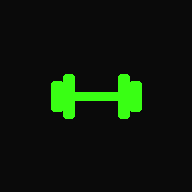
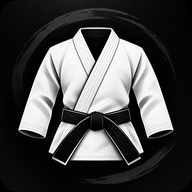
Add files via upload

diff --git a/index.html b/index.html
@@ -3,7 +3,7 @@
 <head>
 <meta charset="utf-8">
 <meta name="viewport" content="width=device-width, initial-scale=1, viewport-fit=cover">
-<meta name="theme-color" content="#000000">
+<meta name="theme-color" content="#050505">
 <meta name="application-name" content="TREINO">
 <meta name="description" content="Organize seus treinos, acompanhe sua evolução e registre seu histórico.">
 <link rel="manifest" href="./manifest.webmanifest">
@@ -13,7 +13,7 @@
 <meta name="apple-mobile-web-app-capable" content="yes">
 <meta name="apple-mobile-web-app-title" content="Treino">
 <meta name="apple-mobile-web-app-status-bar-style" content="black-translucent">
-<title>TREINO — Cronograma de Treinos</title>
+<title>TREINO — Jiu-Jitsu & Performance</title>
 <link href="https://fonts.googleapis.com/css2?family=Barlow:wght@400;500;600&family=Barlow+Condensed:wght@600;700&display=swap" rel="stylesheet">
 <style>
 :root{--bg:#000;--s1:#101012;--s2:#1b1b1e;--ln:#28282c;--ink:#f5f5f7;--mu:#8e8e96;--ac:#fff;--on:#000;--sh:0 8px 24px rgba(0,0,0,.45);color-scheme:dark;box-sizing:border-box;padding-top:env(safe-area-inset-top,0px);padding-bottom:env(safe-area-inset-bottom,0px)}
@@ -82,6 +82,58 @@ input:focus-visible,select:focus-visible,textarea:focus-visible,button:focus-vis
 #timer b{font:700 26px "Barlow Condensed",sans-serif}#timer .ib{color:var(--ink)}
 #toast{position:fixed;left:50%;top:calc(14px + env(safe-area-inset-top,0px));transform:translate(-50%,-20px);opacity:0;background:var(--ac);color:var(--on);padding:10px 16px;border-radius:30px;font-weight:600;z-index:40;pointer-events:none;transition:.25s;max-width:90vw;text-align:center}#toast.on{opacity:1;transform:translate(-50%,0)}
 @media (prefers-reduced-motion:reduce){*{transition:none!important}}
+
+/* TREINO — FUTURISTA MINIMALISTA / JIU-JITSU */
+:root{
+ --bg:#050505;--s1:#0d0d0f;--s2:#171719;--ln:#28282b;
+ --ink:#f5f5f5;--mu:#85858b;--ac:#f4f4f4;--on:#050505;
+ --sh:0 14px 34px rgba(0,0,0,.34);
+}
+:root[data-theme="light"]{
+ --bg:#f4f4f4;--s1:#fff;--s2:#ededed;--ln:#d7d7d7;
+ --ink:#111;--mu:#6d6d72;--ac:#111;--on:#fff;
+}
+body{letter-spacing:.01em;background:
+ radial-gradient(ellipse at 50% -15%,rgba(255,255,255,.045),transparent 45%),
+ var(--bg)}
+main{padding:18px 15px 138px}
+#view::before{content:"JIU-JITSU  /  DISCIPLINA  /  EVOLUÇÃO";display:block;font:600 10px/1.2 Barlow,sans-serif;letter-spacing:.22em;color:var(--mu);margin:2px 0 12px}
+h1{font-size:36px;letter-spacing:-.025em;margin:0 0 6px}
+h1::after{content:"";display:block;width:38px;height:2px;background:var(--ink);opacity:.7;margin-top:10px}
+h2{font-size:26px;letter-spacing:-.01em}
+h3{font-size:17px;letter-spacing:.12em;text-transform:uppercase;color:var(--mu)}
+.card{border-radius:18px;background:linear-gradient(145deg,var(--s1),color-mix(in srgb,var(--s1) 92%,var(--ink) 8%));border-color:color-mix(in srgb,var(--ln) 70%,var(--ink) 12%);padding:17px;margin:12px 0}
+.b,.pb,.ib{transition:transform .12s ease,background .16s ease,border-color .16s ease}
+.b{border-radius:11px;background:var(--s2);border-color:var(--ln)}
+.b.pri,.pb{background:var(--ink);color:var(--bg);border-color:var(--ink)}
+.b:active,.pb:active,.ib:active{transform:scale(.97)}
+.ib{background:#101012;border-color:#2b2b2e;color:#e9e9e9;border-radius:11px}
+.ring{width:106px}
+.rb{stroke:#242427}.rf{stroke:var(--ink)}
+.kp b{font-size:32px;letter-spacing:-.03em}
+.nx{border-left-width:2px;border-left-color:var(--ink)!important;padding-left:14px}
+.nx b{font-size:20px;letter-spacing:-.01em}
+.seg{background:var(--s1);border-color:var(--ln);border-radius:12px}
+.seg button[aria-pressed="true"]{background:var(--ink);color:var(--bg)}
+.wn button{border-radius:11px;background:var(--s1);border-color:var(--ln)}
+.dc,.mc{background:var(--s1);border-radius:12px;border-color:var(--ln)}
+.dc[aria-pressed="true"]{background:var(--ink);color:var(--bg);border-color:var(--ink)}
+.ss{border-left-width:2px;border-radius:15px;background:var(--s1);border-color:var(--ln);border-left-color:var(--ink)!important}
+.ss .bd{border-radius:7px;text-transform:uppercase;letter-spacing:.06em;font-size:10px}
+.ss.d .bd{background:var(--ink);color:var(--bg)}
+.mets b{font-size:34px;letter-spacing:-.025em}
+.pg{height:5px;background:var(--s2)}.pg i{background:var(--ink)}
+.bg{border-radius:12px;background:var(--s1);border-color:var(--ln)}
+input,select,textarea{background:var(--s2);border-color:var(--ln);border-radius:11px}
+#nav{background:rgba(10,10,10,.94);border-top-color:#262629;backdrop-filter:blur(18px);-webkit-backdrop-filter:blur(18px);padding-top:8px}
+:root[data-theme="light"] #nav{background:rgba(255,255,255,.94)}
+#nav button{font-size:11px;letter-spacing:.04em}
+#nav button[aria-current="true"]{color:var(--ink);background:var(--s2)}
+#timer{box-shadow:0 12px 34px rgba(255,255,255,.08)}
+.sheet{border-radius:22px 22px 0 0;background:var(--s1);border-color:var(--ln)}
+#toast{border:1px solid var(--ln)}
+@media(min-width:600px){main{padding-top:24px}.card{padding:20px}}
+
 </style>
 </head>
 <body>
